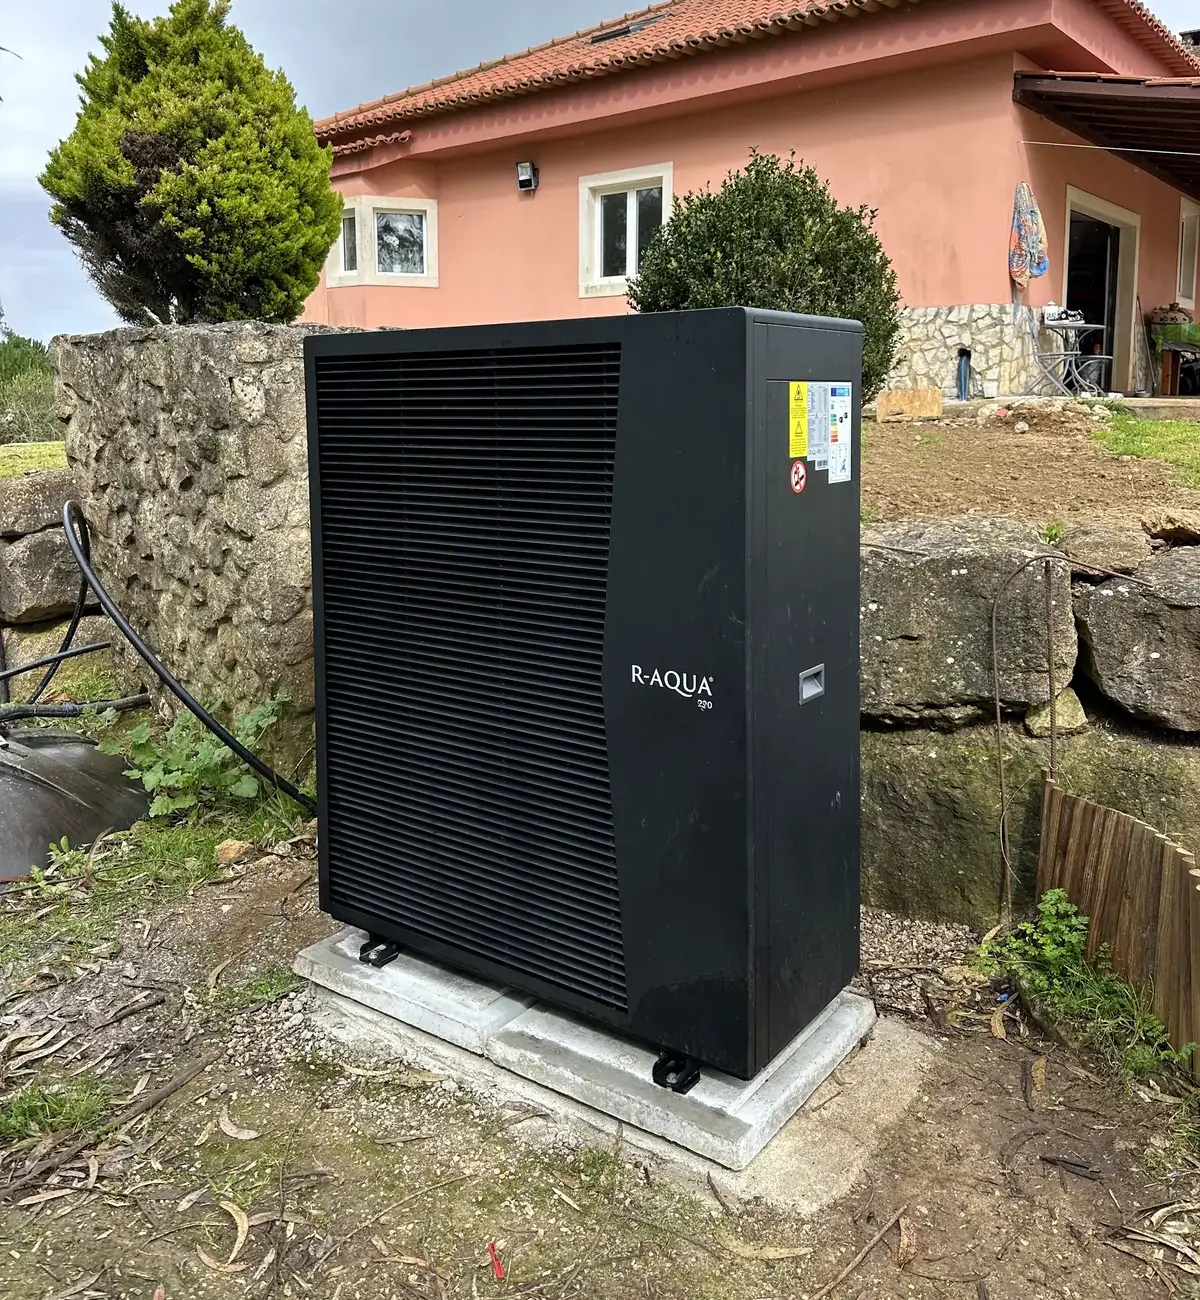
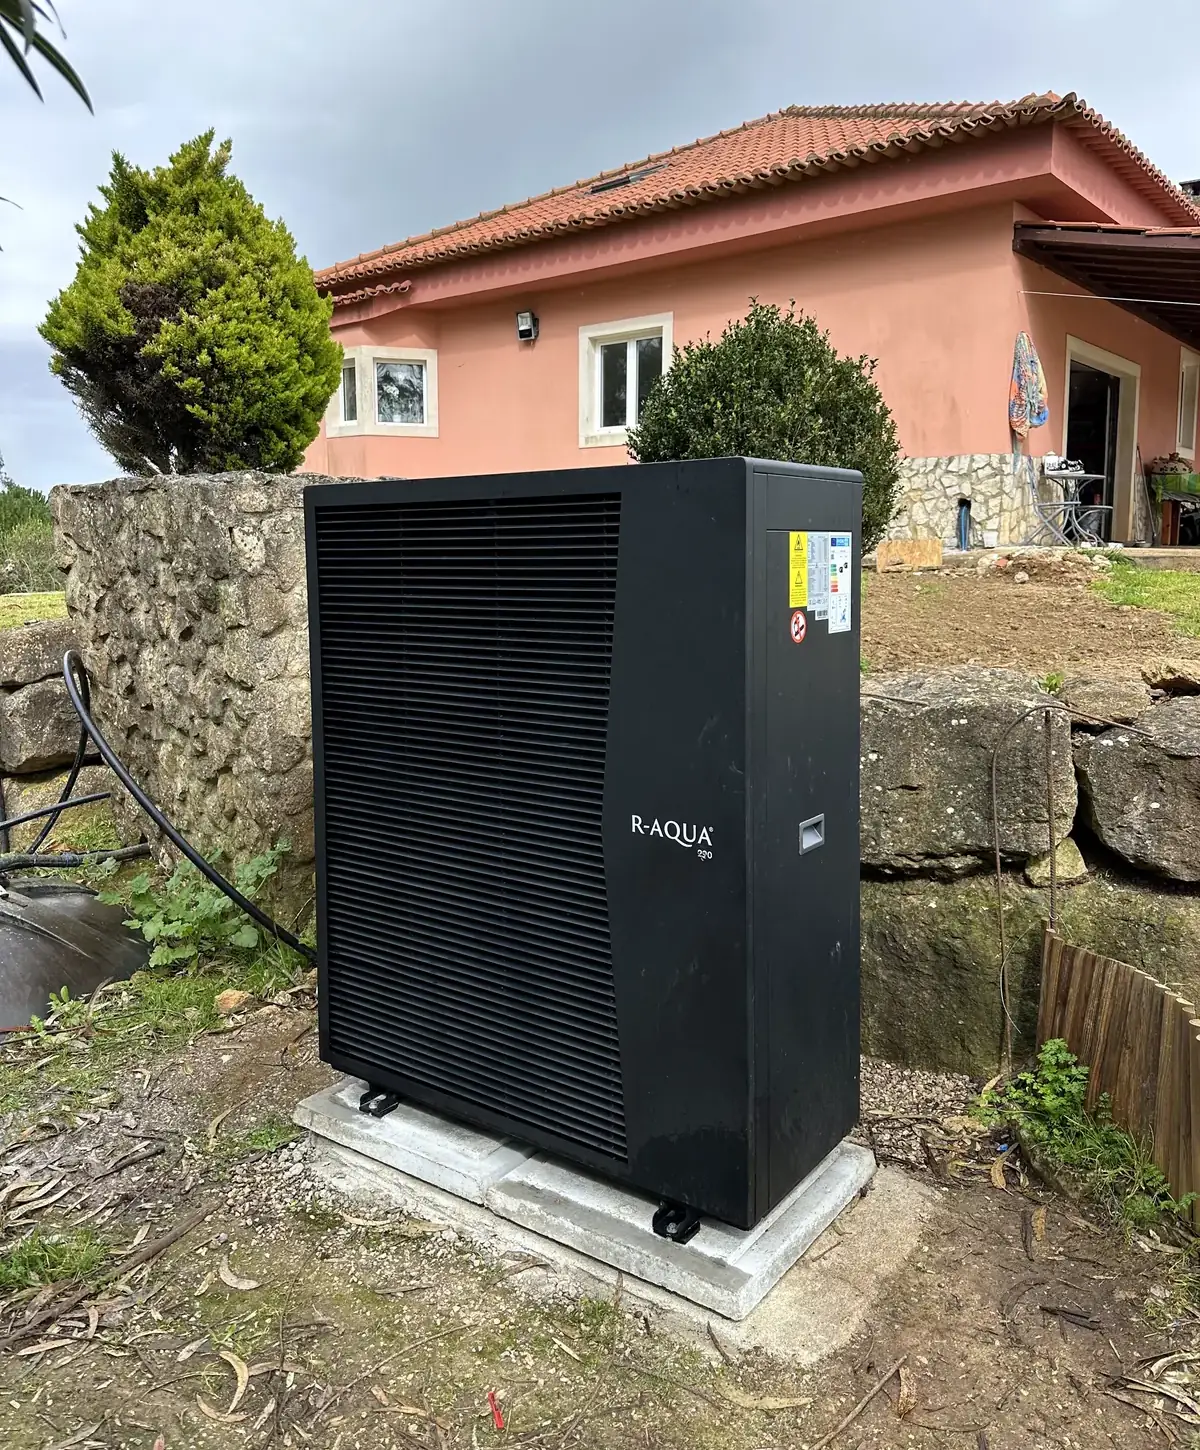
Topo: a fotografia volta a aparecer inteira (as regras do CSS seguiam o nome antigo) e com mais céu (corte de 150 px)
Claude-Session: https://claude.ai/code/session_016fXcfp91ZPBrbN8QcawRdm

diff --git a/website/site/index.html b/website/site/index.html
@@ -1,7 +1,7 @@
 <!doctype html><html lang="pt-PT"><head><meta charset="utf-8"><meta name="viewport" content="width=device-width,initial-scale=1"><title>MDM | Ar condicionado e AVAC na Grande Lisboa</title><meta name="description" content="Instalação e manutenção de ar condicionado, bombas de calor e ventilação na Grande Lisboa, desde 1991. Peça orçamento sem compromisso."><link rel="icon" type="image/svg+xml" href="/assets/img/logo-mdm.svg"><link rel="stylesheet" href="/assets/site.css"><link rel="stylesheet" href="/assets/assistant.css"><link rel="stylesheet" href="/assets/hero.css"><link rel="stylesheet" href="/assets/calculator.css"><link rel="canonical" href="https://www.mdmassist.pt/"><meta property="og:type" content="website"><meta property="og:url" content="https://www.mdmassist.pt/"><meta property="og:site_name" content="MDM Assistência Técnica"><meta property="og:title" content="MDM | Ar condicionado e AVAC na Grande Lisboa"><meta property="og:description" content="Instalação e manutenção de ar condicionado, bombas de calor e ventilação na Grande Lisboa, desde 1991. Peça orçamento sem compromisso."><meta property="og:image" content="https://www.mdmassist.pt/assets/img/foto-28-1600.webp"><meta property="og:locale" content="pt_PT"><meta name="twitter:card" content="summary_large_image"><link rel="alternate" hreflang="pt-PT" href="https://www.mdmassist.pt/"><link rel="alternate" hreflang="en" href="https://www.mdmassist.pt/en/"><script type="application/ld+json">{"@context": "https://schema.org", "@type": "HVACBusiness", "name": "MDM Assistência Técnica", "legalName": "M.D.M. - Manuel Domingos Melancia, Lda", "taxID": "502644761", "url": "https://www.mdmassist.pt/", "logo": "https://www.mdmassist.pt/assets/img/logo-mdm.svg", "image": "https://www.mdmassist.pt/assets/img/foto-04-1600.webp", "telephone": "+351218935050", "email": "mdmassistencia@gmail.com", "foundingDate": "1991", "address": {"@type": "PostalAddress", "streetAddress": "Alameda dos Oceanos 108 A, Edifício Vila do Oriente", "postalCode": "1990-426", "addressLocality": "Lisboa", "addressCountry": "PT"}, "areaServed": {"@type": "AdministrativeArea", "name": "Grande Lisboa"}, "openingHoursSpecification": [{"@type": "OpeningHoursSpecification", "dayOfWeek": ["Monday", "Tuesday", "Wednesday", "Thursday", "Friday"], "opens": "08:00", "closes": "17:00"}], "contactPoint": [{"@type": "ContactPoint", "contactType": "customer service", "telephone": "+351910307579", "availableLanguage": ["Portuguese", "English"]}], "inLanguage": "pt-PT"}</script></head><body>
 <a class="skip" href="#conteudo">Saltar para o conteúdo</a>
 <header class="header"><div class="wrap nav"><a href="/" class="brand" aria-label="MDM, página inicial"><img src="/assets/img/logo-mdm.svg" width="64" height="67" alt=""><span><b>MDM</b><small>ASSISTÊNCIA TÉCNICA</small></span></a><nav aria-label="Navegação principal"><a href="#solucoes">Soluções</a><a href="/obras.html">Obras realizadas</a><a href="#equipa">A MDM</a><a href="#contactos">Contactos</a></nav><div class="language-switch" aria-label="Idioma"><a lang="pt" hreflang="pt-PT" href="/" aria-current="true">PT</a><a lang="en" hreflang="en" href="/en/">EN</a></div><button class="btn primary" data-quote>Pedir orçamento sem compromisso</button><button class="menu-toggle" aria-label="Abrir menu" aria-expanded="false">Menu</button></div></header>
-<main id="conteudo"><section class="hero hero-immersive hero-mdm-terrace hero-heat-pump"><div class="hero-copy"><p class="eyebrow"><span></span> AR CONDICIONADO E AVAC NA GRANDE LISBOA</p><h1>Ar condicionado.<br>Instalação.<br><em>Manutenção.</em></h1><p class="hero-intro"><strong>Para casas e empresas. Da primeira visita à manutenção, a mesma equipa.</strong></p><div class="audience" aria-label="Tipo de espaço"><button aria-pressed="true" data-audience="casa">Habitação</button><button aria-pressed="false" data-audience="empresa">Comércio e serviços</button></div><p class="audience-note" id="audience-note">Conforto em cada divisão, com uma solução à medida da sua casa.</p><div class="hero-actions"><button class="btn primary" data-quote>Pedir orçamento sem compromisso</button><a class="text-link" href="/obras.html">Consultar intervenções</a></div><div class="hero-proof"><span><b>1991</b> Assistência técnica AVAC</span><span><b>Grande Lisboa</b> Instalação e assistência</span></div></div><div class="hero-visual"><div class="hero-image-frame"><img id="hero-image" src="/assets/img/foto-04-topo-1600.webp" width="1200" height="1300" alt="Bomba de calor monobloco preta assente em lajetas de betão, no jardim de uma moradia." fetchpriority="high"></div></div></section>
+<main id="conteudo"><section class="hero hero-immersive hero-mdm-terrace hero-heat-pump"><div class="hero-copy"><p class="eyebrow"><span></span> AR CONDICIONADO E AVAC NA GRANDE LISBOA</p><h1>Ar condicionado.<br>Instalação.<br><em>Manutenção.</em></h1><p class="hero-intro"><strong>Para casas e empresas. Da primeira visita à manutenção, a mesma equipa.</strong></p><div class="audience" aria-label="Tipo de espaço"><button aria-pressed="true" data-audience="casa">Habitação</button><button aria-pressed="false" data-audience="empresa">Comércio e serviços</button></div><p class="audience-note" id="audience-note">Conforto em cada divisão, com uma solução à medida da sua casa.</p><div class="hero-actions"><button class="btn primary" data-quote>Pedir orçamento sem compromisso</button><a class="text-link" href="/obras.html">Consultar intervenções</a></div><div class="hero-proof"><span><b>1991</b> Assistência técnica AVAC</span><span><b>Grande Lisboa</b> Instalação e assistência</span></div></div><div class="hero-visual"><div class="hero-image-frame"><img id="hero-image" src="/assets/img/foto-04-topo-1600.webp" width="1200" height="1450" alt="Bomba de calor monobloco preta assente em lajetas de betão, no jardim de uma moradia." fetchpriority="high"></div></div></section>
 <section class="brand-carousel brand-strip" aria-labelledby="brands-title" data-brand-carousel>
  <div class="wrap brand-strip-inner">
   <p class="eyebrow brand-strip-title" id="brands-title">Fornecedores parceiros</p>

diff --git a/website/site/en/index.html b/website/site/en/index.html
@@ -1,7 +1,7 @@
 <!doctype html><html lang="en"><head><meta charset="utf-8"><meta name="viewport" content="width=device-width,initial-scale=1"><title>MDM | Air conditioning and HVAC in Greater Lisbon</title><meta name="description" content="Air conditioning, heat pump and ventilation installation and maintenance across Greater Lisbon since 1991. Request a no-obligation quote."><link rel="icon" type="image/svg+xml" href="/assets/img/logo-mdm.svg"><link rel="stylesheet" href="/assets/site.css"><link rel="stylesheet" href="/assets/assistant.css"><link rel="stylesheet" href="/assets/hero.css"><link rel="stylesheet" href="/assets/calculator.css"><link rel="canonical" href="https://www.mdmassist.pt/en/"><meta property="og:type" content="website"><meta property="og:url" content="https://www.mdmassist.pt/en/"><meta property="og:site_name" content="MDM Assistência Técnica"><meta property="og:title" content="MDM | Air conditioning and HVAC in Greater Lisbon"><meta property="og:description" content="Air conditioning, heat pump and ventilation installation and maintenance across Greater Lisbon since 1991. Request a no-obligation quote."><meta property="og:image" content="https://www.mdmassist.pt/assets/img/foto-28-1600.webp"><meta property="og:locale" content="en_GB"><meta name="twitter:card" content="summary_large_image"><link rel="alternate" hreflang="pt-PT" href="https://www.mdmassist.pt/"><link rel="alternate" hreflang="en" href="https://www.mdmassist.pt/en/"><script type="application/ld+json">{"@context": "https://schema.org", "@type": "HVACBusiness", "name": "MDM Assistência Técnica", "legalName": "M.D.M. - Manuel Domingos Melancia, Lda", "taxID": "502644761", "url": "https://www.mdmassist.pt/en/", "logo": "https://www.mdmassist.pt/assets/img/logo-mdm.svg", "image": "https://www.mdmassist.pt/assets/img/foto-04-1600.webp", "telephone": "+351218935050", "email": "mdmassistencia@gmail.com", "foundingDate": "1991", "address": {"@type": "PostalAddress", "streetAddress": "Alameda dos Oceanos 108 A, Edifício Vila do Oriente", "postalCode": "1990-426", "addressLocality": "Lisboa", "addressCountry": "PT"}, "areaServed": {"@type": "AdministrativeArea", "name": "Grande Lisboa"}, "openingHoursSpecification": [{"@type": "OpeningHoursSpecification", "dayOfWeek": ["Monday", "Tuesday", "Wednesday", "Thursday", "Friday"], "opens": "08:00", "closes": "17:00"}], "contactPoint": [{"@type": "ContactPoint", "contactType": "customer service", "telephone": "+351910307579", "availableLanguage": ["Portuguese", "English"]}], "inLanguage": "en"}</script></head><body>
 <a class="skip" href="#conteudo">Skip to content</a>
 <header class="header"><div class="wrap nav"><a href="/en/" class="brand" aria-label="MDM homepage"><img src="/assets/img/logo-mdm.svg" width="64" height="67" alt=""><span><b>MDM</b><small>TECHNICAL SERVICES</small></span></a><nav aria-label="Main navigation"><a href="#solucoes">Solutions</a><a href="/en/obras.html">Completed projects</a><a href="#equipa">About MDM</a><a href="#contactos">Contact</a></nav><div class="language-switch" aria-label="Language"><a lang="pt" hreflang="pt-PT" href="/">PT</a><a lang="en" hreflang="en" href="/en/" aria-current="true">EN</a></div><button class="btn primary" data-quote>Request a no-obligation quote</button><button class="menu-toggle" aria-label="Open menu" aria-expanded="false">Menu</button></div></header>
-<main id="conteudo"><section class="hero hero-immersive hero-mdm-terrace hero-heat-pump"><div class="hero-copy"><p class="eyebrow"><span></span> AIR CONDITIONING AND HVAC IN GREATER LISBON</p><h1>Air conditioning.<br>Installation.<br><em>Maintenance.</em></h1><p class="hero-intro"><strong>For homes and businesses. From the first visit to maintenance, the same team.</strong></p><div class="audience" aria-label="Property type"><button aria-pressed="true" data-audience="casa">Residential</button><button aria-pressed="false" data-audience="empresa">Commercial</button></div><p class="audience-note" id="audience-note">Comfort in every room, with a solution tailored to your home.</p><div class="hero-actions"><button class="btn primary" data-quote>Request a no-obligation quote</button><a class="text-link" href="/en/obras.html">View completed projects</a></div><div class="hero-proof"><span><b>1991</b> HVAC technical support</span><span><b>Greater Lisbon</b> Installation and support</span></div></div><div class="hero-visual"><div class="hero-image-frame"><img id="hero-image" src="/assets/img/foto-04-topo-1600.webp" width="1200" height="1300" alt="A black monobloc heat pump on concrete slabs in a house garden." fetchpriority="high"></div></div></section>
+<main id="conteudo"><section class="hero hero-immersive hero-mdm-terrace hero-heat-pump"><div class="hero-copy"><p class="eyebrow"><span></span> AIR CONDITIONING AND HVAC IN GREATER LISBON</p><h1>Air conditioning.<br>Installation.<br><em>Maintenance.</em></h1><p class="hero-intro"><strong>For homes and businesses. From the first visit to maintenance, the same team.</strong></p><div class="audience" aria-label="Property type"><button aria-pressed="true" data-audience="casa">Residential</button><button aria-pressed="false" data-audience="empresa">Commercial</button></div><p class="audience-note" id="audience-note">Comfort in every room, with a solution tailored to your home.</p><div class="hero-actions"><button class="btn primary" data-quote>Request a no-obligation quote</button><a class="text-link" href="/en/obras.html">View completed projects</a></div><div class="hero-proof"><span><b>1991</b> HVAC technical support</span><span><b>Greater Lisbon</b> Installation and support</span></div></div><div class="hero-visual"><div class="hero-image-frame"><img id="hero-image" src="/assets/img/foto-04-topo-1600.webp" width="1200" height="1450" alt="A black monobloc heat pump on concrete slabs in a house garden." fetchpriority="high"></div></div></section>
 <section class="brand-carousel brand-strip" aria-labelledby="brands-title" data-brand-carousel>
  <div class="wrap brand-strip-inner">
   <p class="eyebrow brand-strip-title" id="brands-title">Partner suppliers</p>

diff --git a/website/site/assets/site.js b/website/site/assets/site.js
@@ -2,7 +2,7 @@
 const t=s=>window.MDM?.t(s)||s;
 const isEnglish=document.documentElement.lang.startsWith('en');
 const q=(s,r=document)=>r.querySelector(s),qa=(s,r=document)=>[...r.querySelectorAll(s)];
-const scenes={"casa":{"credit":"Arquivo MDM","author":"MDM","kind":"OBRA MDM","isMdm":true,"src":"/assets/img/foto-04-topo-1600.webp","caption":"Bomba de calor para moradia","alt":"Bomba de calor monobloco preta assente em lajetas de betão, no jardim de uma moradia.","source":"/obras/bomba-de-calor-para-moradia.html","label":"Ver bomba de calor na moradia","width":1200,"height":1300,"frame":"heat-pump"},"empresa":{"src":"/assets/img/foto-28-1600.webp","caption":"Midea e solar térmico na cobertura.","alt":"Unidade exterior Midea numa cobertura de Lisboa, junto a painéis solares térmicos","credit":"Ver esta obra MDM","source":"/obras/vrf-ao-lado-do-solar-termico.html","author":"MDM","label":"Ver cobertura Midea com painéis solares","width":1600,"height":1200,"kind":"OBRA MDM","isMdm":true,"frame":"solar-rooftop"},"terraco":{"src":"/assets/img/hero-hvac-pexels-30210086.jpg","caption":"Equipamentos na cobertura.","alt":"Cobertura industrial com unidade de ar condicionado, ventilação e céu azul","credit":"Alexey Baikov / Pexels","source":"https://www.pexels.com/photo/industrial-rooftop-with-hvac-unit-and-ladder-30210086/","author":"Alexey Baikov","label":"Ver instalação exterior de climatização","width":2400,"height":1600}};
+const scenes={"casa":{"credit":"Arquivo MDM","author":"MDM","kind":"OBRA MDM","isMdm":true,"src":"/assets/img/foto-04-topo-1600.webp","caption":"Bomba de calor para moradia","alt":"Bomba de calor monobloco preta assente em lajetas de betão, no jardim de uma moradia.","source":"/obras/bomba-de-calor-para-moradia.html","label":"Ver bomba de calor na moradia","width":1200,"height":1450,"frame":"heat-pump"},"empresa":{"src":"/assets/img/foto-28-1600.webp","caption":"Midea e solar térmico na cobertura.","alt":"Unidade exterior Midea numa cobertura de Lisboa, junto a painéis solares térmicos","credit":"Ver esta obra MDM","source":"/obras/vrf-ao-lado-do-solar-termico.html","author":"MDM","label":"Ver cobertura Midea com painéis solares","width":1600,"height":1200,"kind":"OBRA MDM","isMdm":true,"frame":"solar-rooftop"},"terraco":{"src":"/assets/img/hero-hvac-pexels-30210086.jpg","caption":"Equipamentos na cobertura.","alt":"Cobertura industrial com unidade de ar condicionado, ventilação e céu azul","credit":"Alexey Baikov / Pexels","source":"https://www.pexels.com/photo/industrial-rooftop-with-hvac-unit-and-ladder-30210086/","author":"Alexey Baikov","label":"Ver instalação exterior de climatização","width":2400,"height":1600}};
 function changeScene(key){
  const scene=scenes[key],image=q('#hero-image');if(!scene||!image)return;
  image.src=scene.src;image.width=scene.width;image.height=scene.height;image.alt=t(scene.alt);

diff --git a/website/site/assets/hero.css b/website/site/assets/hero.css
@@ -92,14 +92,14 @@
 @media(max-width:900px){.hero-immersive{padding-bottom:48px}}
 
 /* Preserve the complete original residential and commercial photographs. */
-.hero-immersive .hero-image-frame>img[src$="foto-04-1600.webp"],.hero-immersive .hero-image-frame>img[src$="foto-28-1600.webp"]{object-fit:contain;object-position:right center}
+.hero-immersive .hero-image-frame>img[src$="foto-04-1600.webp"],.hero-immersive .hero-image-frame>img[src$="foto-04-topo-1600.webp"],.hero-immersive .hero-image-frame>img[src$="foto-28-1600.webp"]{object-fit:contain;object-position:right center}
 @media(min-width:901px){
  .hero-mdm-terrace .hero-copy{margin-left:0;margin-right:auto}
  .hero-mdm-terrace .hero-visual:after{background:linear-gradient(90deg,#0b1624ed 0%,#0b1624d9 26%,#0b16248c 42%,#0b16241a 59%,#0b162429 100%),linear-gradient(0deg,#0b1624cf,transparent 32%)}
  .hero-mdm-terrace .photo-tag,.hero-mdm-terrace .photo-controls{left:auto;right:var(--hero-gutter)}
 }
 @media(max-width:900px){
- .hero-immersive .hero-image-frame>img[src$="foto-04-1600.webp"],.hero-immersive .hero-image-frame>img[src$="foto-28-1600.webp"]{object-position:center top}
+ .hero-immersive .hero-image-frame>img[src$="foto-04-1600.webp"],.hero-immersive .hero-image-frame>img[src$="foto-04-topo-1600.webp"],.hero-immersive .hero-image-frame>img[src$="foto-28-1600.webp"]{object-position:center top}
 }
 
 /* Each original aspect ratio receives its own space above the mobile text. */
